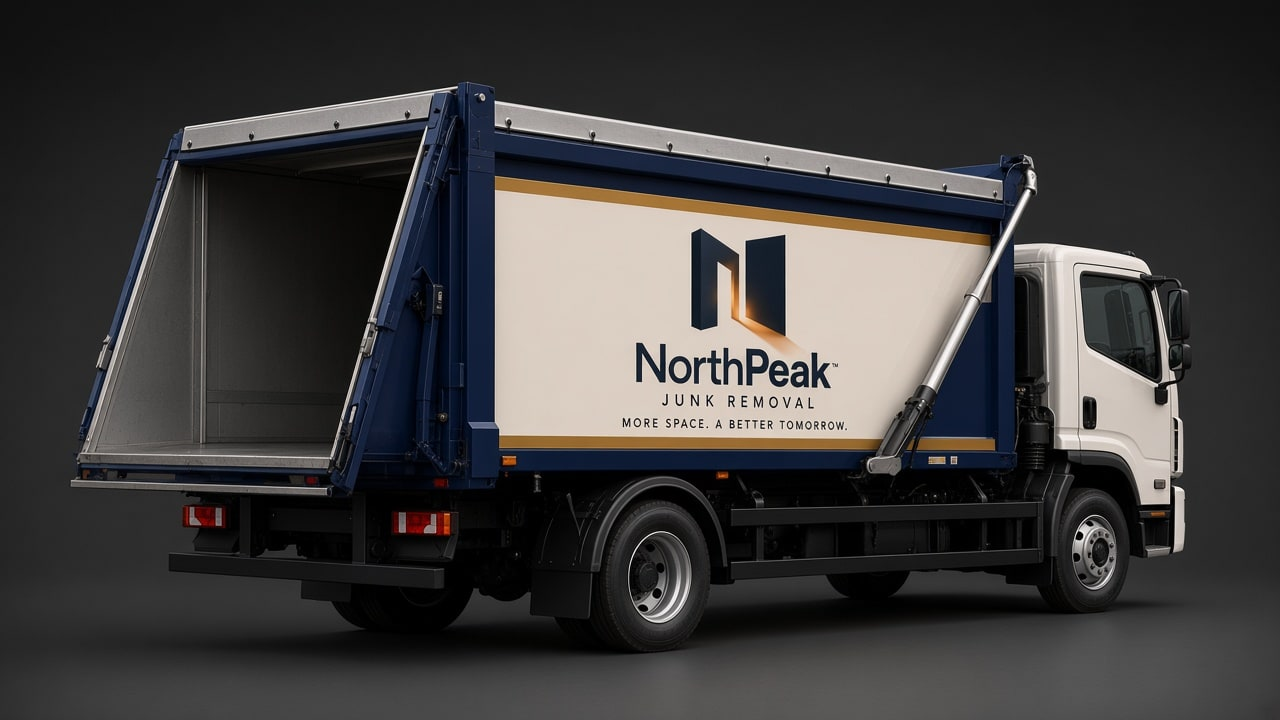
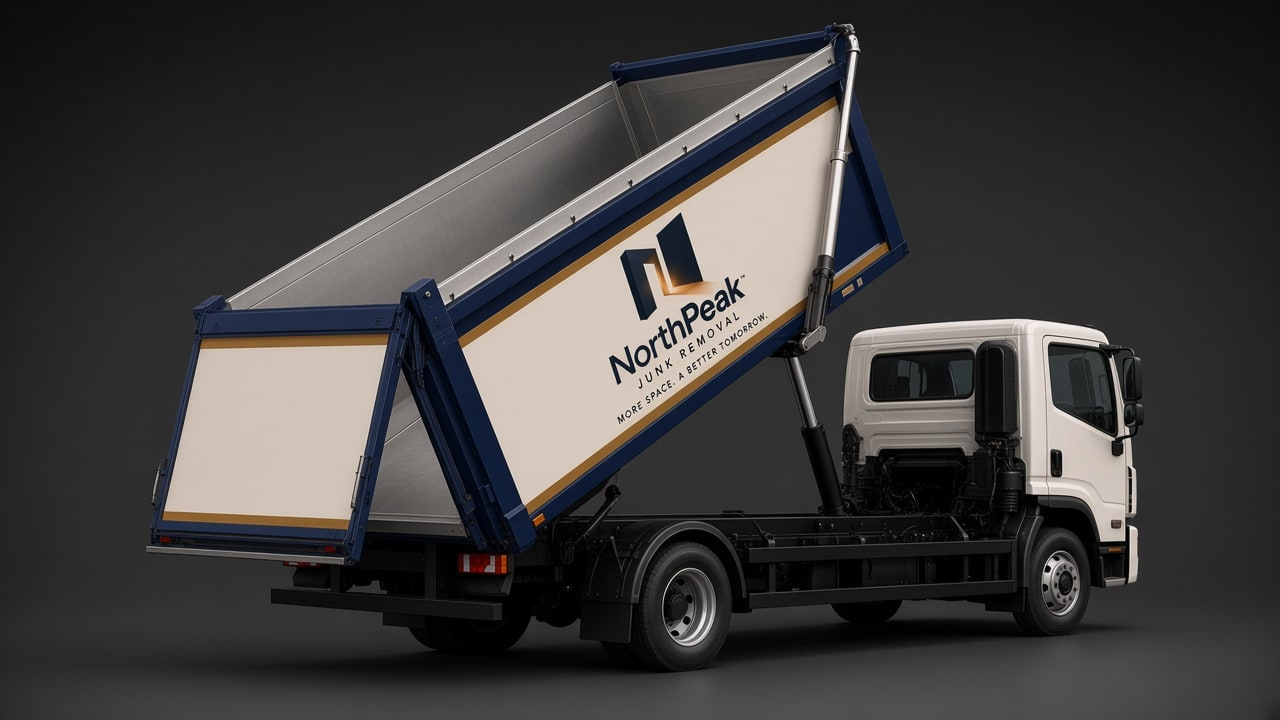
Show tilted empty dump at 0% and flat loaded bed for fill levels.

diff --git a/src/content/truck.ts b/src/content/truck.ts
@@ -27,10 +27,10 @@ export const volumeLevels: VolumeLevel[] = [
   {
     id: "empty",
     label: "Empty",
-    blurb: "Nothing staged yet",
+    blurb: "Hydraulic dump — bed raised",
     fill: 0,
     cubicFeet: 0,
-    visitLabel: "Drag to inspect the bay",
+    visitLabel: "Bed tilted — ready to unload",
     fillSrc: null,
   },
   {
@@ -40,7 +40,7 @@ export const volumeLevels: VolumeLevel[] = [
     fill: 25,
     cubicFeet: 40,
     visitLabel: "Short visit",
-    fillSrc: "/truck/junk-fill-25.jpg?v=1",
+    fillSrc: "/truck/junk-fill-25.jpg?v=2",
   },
   {
     id: "room",
@@ -49,7 +49,7 @@ export const volumeLevels: VolumeLevel[] = [
     fill: 50,
     cubicFeet: 110,
     visitLabel: "Standard visit",
-    fillSrc: "/truck/junk-fill-50.jpg?v=1",
+    fillSrc: "/truck/junk-fill-50.jpg?v=2",
   },
   {
     id: "garage",
@@ -58,7 +58,7 @@ export const volumeLevels: VolumeLevel[] = [
     fill: 75,
     cubicFeet: 200,
     visitLabel: "Full crew visit",
-    fillSrc: "/truck/junk-fill-75.jpg?v=1",
+    fillSrc: "/truck/junk-fill-75.jpg?v=2",
   },
   {
     id: "home",
@@ -67,7 +67,7 @@ export const volumeLevels: VolumeLevel[] = [
     fill: 100,
     cubicFeet: 300,
     visitLabel: "Extended visit",
-    fillSrc: "/truck/junk-fill-100.jpg?v=1",
+    fillSrc: "/truck/junk-fill-100.jpg?v=2",
   },
 ];
 
